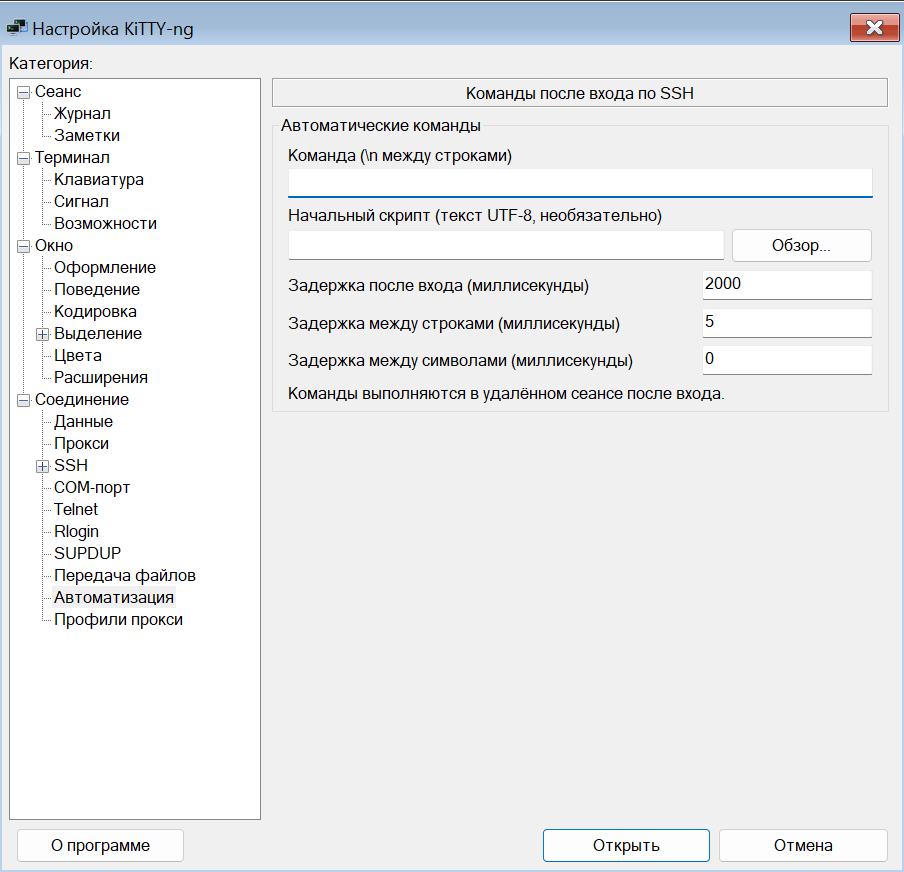
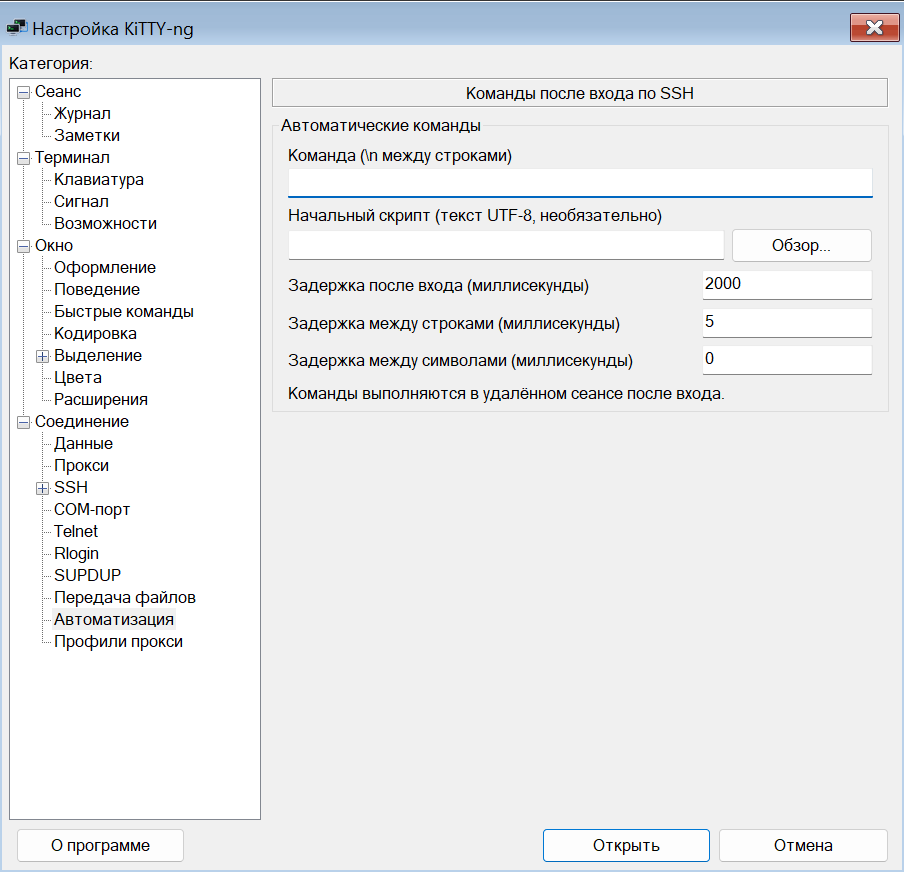
Document 0.85-10 quick commands and refresh native screenshots

Changed region(s): [[0.0, 0.3406, 0.2168, 0.7431]]

diff --git a/test/linux_release_acceptance.py b/test/linux_release_acceptance.py
@@ -7,11 +7,28 @@ binaries={name:hashlib.sha256((app/'usr/bin'/name).read_bytes()).hexdigest() for
 assert binaries==package['binaries']
 report={'status':'running','version':version,'source_commit':build['source_commit'],'binaries':binaries,'tests':[]}
 path=out/'native-acceptance.json'
+previous=json.loads(path.read_text()) if '--resume' in sys.argv and path.exists() else {}
+checkpoint_time=path.stat().st_mtime if path.exists() else 0
+same_package=all(previous.get(k)==report[k] for k in ('version','source_commit','binaries'))
+report['inputs']={}
+def inputs(name):
+ files=[p for p in root.glob('*.py') if p.name!='linux_release_acceptance.py']
+ if name=='duplicate-password-retry':files.append(root/'kittyng-password-vector.json')
+ return files,{p.name:hashlib.sha256(p.read_bytes()).hexdigest() for p in files}
+
 def run(name,args):
+ files,digests=inputs(name)
+ cached=previous.get('inputs',{}).get(name)
+ # Older checkpoints predate input digests. Reuse only when every relevant
+ # test file is still older than the checkpoint; otherwise run it again.
+ unchanged=(cached==digests) if cached is not None else all(p.stat().st_mtime<=checkpoint_time for p in files)
+ if same_package and name in previous.get('tests',[]) and unchanged:
+  report['tests'].append(name);report['inputs'][name]=digests
+  path.write_text(json.dumps(report,indent=2));print('REUSE: '+name,flush=True);return
  with (out/(name+'.log')).open('w') as log:
   result=subprocess.run(args,stdout=log,stderr=subprocess.STDOUT,timeout=240)
  if result.returncode:report['status']='failed';report['failed_suite']=name;path.write_text(json.dumps(report,indent=2));raise RuntimeError(name+' failed: '+(out/(name+'.log')).read_text()[-5000:])
- report['tests'].append(name);path.write_text(json.dumps(report,indent=2));print('PASS: '+name,flush=True)
+ report['tests'].append(name);report['inputs'][name]=digests;path.write_text(json.dumps(report,indent=2));print('PASS: '+name,flush=True)
 def gui(script,*args):return ['xvfb-run','-a','-s','-screen 0 1600x1000x24','dbus-run-session','--','python3',str(root/script),*map(str,args)]
 run('appimage-version',['xvfb-run','-a',str(root/f'kitty-ng-{version}-x86_64.AppImage'),'--appimage-extract-and-run','--version'])
 run('native-gui',gui('linux_native.py','--binary',app/'AppRun','--output',out/'native'))

diff --git a/test/linux_quick_commands.py b/test/linux_quick_commands.py
@@ -6,7 +6,8 @@ logging.getLogger('paramiko').setLevel(logging.CRITICAL)
 def wait(fn):
     end=time.monotonic()+15
     while time.monotonic()<end:
-        value=fn()
+        try:value=fn()
+        except subprocess.CalledProcessError:value=None
         if value:return value
         time.sleep(.1)
     raise AssertionError('Timeout waiting for quick-command GUI')

diff --git a/README.md b/README.md
@@ -1,6 +1,6 @@
 # KiTTY-ng
 
-**KiTTY-ng 0.85-9 для Windows, Linux и macOS**: общее русско-английское языковое ядро, переводы сообщений SSH и исправления вкладок. [Изменения](docs/releases/0.85-9.md) · [Скачать выпуск](https://github.com/nr084/KiTTY-ng/releases/tag/v0.85-9).
+**KiTTY-ng 0.85-10 для Windows и Linux**: общие быстрые команды, исправления компоновки и кириллицы настроек Windows, дата сборки в «О программе». [Изменения](docs/releases/0.85-10.md) · [Скачать](https://github.com/nr084/KiTTY-ng/releases/tag/v0.85-10). macOS Universal готовится отдельно.
 
 **macOS Universal 2 · Портативный режим**: поддерживаются Apple Silicon и Intel. Профили и ключи хранятся вне приложения; общую портативную папку можно использовать с Windows. Нативные вкладки сеансов включены.
 
@@ -16,13 +16,13 @@
 
 ## Скачать
 
-| Платформа | Сборка 0.85-9 | Запуск |
+| Платформа | Сборка 0.85-10 | Запуск |
 | --- | --- | --- |
-| Linux x86_64 | [AppImage](https://github.com/nr084/kitty-ng/releases/download/v0.85-9/kitty-ng-0.85-9-x86_64.AppImage) · [AppDir](https://github.com/nr084/kitty-ng/releases/download/v0.85-9/kitty-ng-0.85-9-x86_64.tar.zst) | `chmod +x`, запуск |
-| Windows x64 | [ZIP](https://github.com/nr084/kitty-ng/releases/download/v0.85-9/kitty-ng-0.85-9-x64.zip) | `kitty-ng-x64.exe` |
-| Windows x86 | [ZIP](https://github.com/nr084/kitty-ng/releases/download/v0.85-9/kitty-ng-0.85-9-x86.zip) | `kitty-ng-x86.exe` |
-| Windows arm64 | [ZIP](https://github.com/nr084/kitty-ng/releases/download/v0.85-9/kitty-ng-0.85-9-arm64.zip) | `kitty-ng-arm64.exe` |
-| macOS 13+ · Intel / Apple Silicon | [Universal DMG](https://github.com/nr084/kitty-ng/releases/download/v0.85-9/kitty-ng-0.85-9-macos-universal.dmg) | `KiTTY-ng.app` |
+| Linux x86_64 | [AppImage](https://github.com/nr084/kitty-ng/releases/download/v0.85-10/kitty-ng-0.85-10-x86_64.AppImage) · [AppDir](https://github.com/nr084/kitty-ng/releases/download/v0.85-10/kitty-ng-0.85-10-x86_64.tar.zst) | `chmod +x`, запуск |
+| Windows x64 | [ZIP](https://github.com/nr084/kitty-ng/releases/download/v0.85-10/kitty-ng-0.85-10-x64.zip) | `kitty-ng-x64.exe` |
+| Windows x86 | [ZIP](https://github.com/nr084/kitty-ng/releases/download/v0.85-10/kitty-ng-0.85-10-x86.zip) | `kitty-ng-x86.exe` |
+| Windows arm64 | [ZIP](https://github.com/nr084/kitty-ng/releases/download/v0.85-10/kitty-ng-0.85-10-arm64.zip) | `kitty-ng-arm64.exe` |
+| macOS 13+ · Intel / Apple Silicon | Universal DMG готовится и будет добавлен в этот выпуск | `KiTTY-ng.app` |
 
 [Все релизы и контрольные суммы](https://github.com/nr084/kitty-ng/releases). В комплекте клиент и пять утилит. Имена Windows EXE содержат архитектуру; версия указана внутри программ и в именах архивов.
 
@@ -37,13 +37,14 @@
 ## Возможности
 
 - macOS (ранее выпущенные возможности): нативные вкладки, дублирование временных подключений без записи профиля и верхнее меню активного сеанса. [Подробнее](docs/tabs.md).
-- Вкладки Windows/Linux в 0.85-9: дублирование в том же окне, перетаскивание, отдельные кнопки закрытия. [Подробнее](docs/tabs.md).
+- Вкладки Windows/Linux в 0.85-10: дублирование в том же окне, перетаскивание, отдельные кнопки закрытия. [Подробнее](docs/tabs.md).
 
 - Папки сеансов, быстрый поиск без учёта регистра, редактирование и дублирование.
 - Формат оригинального KiTTY и переносимые ссылки на ключи и сертификаты.
 - SCP/SFTP через kscp, отправка перетаскиванием и скачивание.
 - Генератор KiTTYgen, агент Kageant и настройки аутентификации текущего сеанса.
 - Автокоманды и UTF-8-скрипты после входа, задержки и переподключение.
+- [Быстрые команды](docs/quick-commands.md): до 20 команд с названиями, общих для всех сеансов; настройка в «Окно → Быстрые команды».
 - Настройки терминала, горячие клавиши, русский и английский интерфейс.
 
 ## Total Commander · kitty-ng-fs
@@ -83,7 +84,7 @@
 - [Windows](docs/windows.md) · [macOS](docs/macos.md) · [Linux](docs/linux.md).
 - [Портативные профили и переход с KiTTY](docs/portable.md).
 - [Локальная сборка](docs/build.md) · [Перенос расширений](docs/migration.md).
-- [Изменения 0.85-9](docs/releases/0.85-9.md) · [Следующие задачи](docs/planned.md).
+- [Изменения 0.85-10](docs/releases/0.85-10.md) · [Следующие задачи](docs/planned.md).
 
 ## Совместимость и проверка
 

diff --git a/docs/releases/0.85-10.md b/docs/releases/0.85-10.md
@@ -1,14 +1,22 @@
 # KiTTY-ng 0.85-10
 
-В подготовке: исправление компоновки и кириллицы настроек Windows после открытия SSH-сеанса, переводы вариантов буфера обмена, дата сборки рядом с версией, общие быстрые команды.
+## Новое
 
-## Быстрые команды
+- **Быстрые команды для Windows и Linux.** До 20 именованных команд, общих для всех сеансов. Редактор находится в **Окно → Быстрые команды**: добавление, сохранение, удаление и отдельный флажок отправки Enter. Запуск — из подменю **Быстрые команды** сразу после **Специальной команды**.
+- Команды хранятся в реестре установленной Windows-версии либо в `kitty.ini` портативной версии, отдельно от профилей. При первом запуске создаётся пример обновления Ubuntu; после удаления всех записей он не возвращается. Названия и команды сохраняются буквально.
+- В **О программе** рядом с версией отображается дата сборки.
 
-- Контекстное меню: «Быстрые команды» после «Специальной команды».
-- Редактор: «Окно → Быстрые команды», максимум 20 записей. Название, команда, флажок отправки Enter; добавить, сохранить, удалить.
-- Общие настройки, вне профилей: Windows — HKCU\Software\KiTTY-NG\QuickCommands либо секция [QuickCommands] файла kitty.ini в портативном режиме. Linux — kitty.ini выбранного портативного каталога.
-- Формат: cmd1_name, cmd1_instruction, cmd1_enter=yes/no, далее до cmd20. initialized=yes сохраняет намеренно пустой список.
-- При первом запуске создаётся пример Update Ubuntu / Обновить Ubuntu с командой apt -y update && apt -y upgrade && apt -y autoremove и Enter=yes. Существующие записи не перезаписываются, после удаления последней записи пример не возвращается.
-- Пользовательские названия и команды сохраняются буквально. Команда отправляется только после выбора пользователем и при доступном подключении; блокировка ввода учитывается.
+## Исправления
 
-Windows/Linux собираются локально на Windows. После их публикации — отдельный промпт для нативной macOS той же версии; Mac-чат адаптирует изменения, проверяет и добавляет DMG в этот выпуск. Портативный режим macOS и совместимость Windows-профилей сохраняются.
+- Windows: устранено повреждение кириллицы и вертикальное расползание текста в настройках после открытия SSH-сеанса. Проверены страницы сигнала, кодировки, выделения, цветов, обмена ключами, туннелей, автоматизации и профилей прокси.
+- Переведены варианты **System clipboard** и **Last selected text**. Новые строки быстрых команд используют общее языковое ядро RU/EN.
+
+## Платформы
+
+Windows x64/x86/ARM64 и Linux x86_64 (AppImage и AppDir). Сборки выполняются локально на Windows последним официальным stable-компилятором LLVM-MinGW 20261020 / Clang 23.1.4. Linux-пакет проверен нативно на Ubuntu.
+
+**macOS Universal 2 готовится отдельно** и будет добавлена в этот выпуск после нативной проверки. Сохраняются портативный режим macOS и совместимость с Windows-профилями: общий каталог `Sessions`, настройки и ключи вне `.app`.
+
+Плагин Total Commander **kitty-ng-fs 1.1.1** выпускается независимо и не изменяется.
+
+[Быстрые команды: руководство](https://github.com/nr084/KiTTY-ng/blob/main/docs/quick-commands.md) · [English guide](https://github.com/nr084/KiTTY-ng/blob/main/docs/quick-commands.en.md)

diff --git a/README.en.md b/README.en.md
@@ -1,6 +1,6 @@
 # KiTTY-ng
 
-**KiTTY-ng 0.85-9 for Windows, Linux and macOS**: a shared English/Russian localization engine, translated SSH messages, and tab fixes. [Release notes](docs/releases/0.85-9.md) · [Download](https://github.com/nr084/KiTTY-ng/releases/tag/v0.85-9).
+**KiTTY-ng 0.85-10 for Windows and Linux**: global quick commands, corrected Windows settings layout and Cyrillic text, and build dates in About. [Release notes](docs/releases/0.85-10.md) · [Download](https://github.com/nr084/KiTTY-ng/releases/tag/v0.85-10). macOS Universal is being prepared separately.
 
 **macOS Universal 2 · Portable**: runs on Apple Silicon and Intel. Keep profiles and keys outside the app bundle and share the same portable folder with Windows. Native session tabs are included.
 
@@ -16,13 +16,13 @@
 
 ## Download
 
-| Platform | Release 0.85-9 | Launch |
+| Platform | Release 0.85-10 | Launch |
 | --- | --- | --- |
-| Linux x86_64 | [AppImage](https://github.com/nr084/kitty-ng/releases/download/v0.85-9/kitty-ng-0.85-9-x86_64.AppImage) · [AppDir](https://github.com/nr084/kitty-ng/releases/download/v0.85-9/kitty-ng-0.85-9-x86_64.tar.zst) | `chmod +x`, launch |
-| Windows x64 | [ZIP](https://github.com/nr084/kitty-ng/releases/download/v0.85-9/kitty-ng-0.85-9-x64.zip) | `kitty-ng-x64.exe` |
-| Windows x86 | [ZIP](https://github.com/nr084/kitty-ng/releases/download/v0.85-9/kitty-ng-0.85-9-x86.zip) | `kitty-ng-x86.exe` |
-| Windows arm64 | [ZIP](https://github.com/nr084/kitty-ng/releases/download/v0.85-9/kitty-ng-0.85-9-arm64.zip) | `kitty-ng-arm64.exe` |
-| macOS 13+ · Intel / Apple Silicon | [Universal DMG](https://github.com/nr084/kitty-ng/releases/download/v0.85-9/kitty-ng-0.85-9-macos-universal.dmg) | `KiTTY-ng.app` |
+| Linux x86_64 | [AppImage](https://github.com/nr084/kitty-ng/releases/download/v0.85-10/kitty-ng-0.85-10-x86_64.AppImage) · [AppDir](https://github.com/nr084/kitty-ng/releases/download/v0.85-10/kitty-ng-0.85-10-x86_64.tar.zst) | `chmod +x`, launch |
+| Windows x64 | [ZIP](https://github.com/nr084/kitty-ng/releases/download/v0.85-10/kitty-ng-0.85-10-x64.zip) | `kitty-ng-x64.exe` |
+| Windows x86 | [ZIP](https://github.com/nr084/kitty-ng/releases/download/v0.85-10/kitty-ng-0.85-10-x86.zip) | `kitty-ng-x86.exe` |
+| Windows arm64 | [ZIP](https://github.com/nr084/kitty-ng/releases/download/v0.85-10/kitty-ng-0.85-10-arm64.zip) | `kitty-ng-arm64.exe` |
+| macOS 13+ · Intel / Apple Silicon | Universal DMG is being prepared and will be added to this release | `KiTTY-ng.app` |
 
 [All releases and checksums](https://github.com/nr084/kitty-ng/releases). Each package includes the client and five utilities. Windows EXE names include their architecture; versions are embedded in the programs and included in archive names.
 
@@ -37,13 +37,14 @@ The Mac app uses an ad-hoc signature without Developer ID or notarization. If bl
 ## Features
 
 - macOS (previously released features): native tabs, temporary connection duplication without saving profiles, and a top menu for the active session. [Details](docs/tabs.en.md).
-- Windows/Linux tabs in 0.85-9: duplicate in the same window, drag to reorder, and individual close buttons. [Details](docs/tabs.en.md).
+- Windows/Linux tabs in 0.85-10: duplicate in the same window, drag to reorder, and individual close buttons. [Details](docs/tabs.en.md).
 
 - Session folders, case-insensitive quick search, editing and duplication.
 - Original KiTTY profile format and portable key/certificate references.
 - SCP/SFTP through kscp, drag-and-drop uploads and downloads.
 - KiTTYgen, Kageant and authentication settings from the current session.
 - Post-login commands and UTF-8 scripts, delays and reconnection.
+- [Quick commands](docs/quick-commands.en.md): up to 20 named commands shared by all sessions; configure them under Window → Quick commands.
 - Terminal settings, shortcuts, English and Russian interfaces.
 
 ## Total Commander · kitty-ng-fs
@@ -83,7 +84,7 @@ The Mac app uses an ad-hoc signature without Developer ID or notarization. If bl
 - [Windows](docs/windows.en.md) · [macOS](docs/macos.en.md) · [Linux](docs/linux.en.md).
 - [Portable profiles and migration](docs/portable.en.md).
 - [Local builds](docs/build.en.md) · [Migration report](docs/migration.md) (Russian).
-- [0.85-9 release notes](docs/releases/0.85-9.md) · [Roadmap](docs/planned.md) (Russian).
+- [0.85-10 release notes](docs/releases/0.85-10.md) · [Roadmap](docs/planned.md) (Russian).
 
 ## Compatibility and validation
 

diff --git a/docs/quick-commands.en.md b/docs/quick-commands.en.md
@@ -1,0 +1,27 @@
+# Quick commands
+
+Open **Window → Quick commands** in KiTTY-ng settings. Commands are shared by all sessions and stored outside individual profiles.
+
+Click **Add**, enter a name and a single-line command, choose whether to send Enter, and click **Save**. Select a saved command to edit or delete it. Save and Delete take effect immediately, independently of closing the settings dialog. Up to 20 commands are supported.
+
+Run a command from **Quick commands**, immediately after **Special Command** in the terminal menu. The text is sent literally to the active remote session. Without Enter, you can review or extend it before execution. Sending is disabled while input is locked or the connection is not ready.
+
+![Windows quick-command editor](screenshots/quick-commands-en.png)
+
+## Storage
+
+Installed Windows: `HKCU\Software\KiTTY-NG\QuickCommands`. Portable Windows and Linux: the `[QuickCommands]` section of `kitty.ini` in the selected portable root.
+
+```ini
+[QuickCommands]
+initialized=yes
+cmd1_name=Update Ubuntu
+cmd1_instruction=apt -y update && apt -y upgrade && apt -y autoremove
+cmd1_enter=yes
+```
+
+Slots are numbered 1–20. Use `yes` or `no` for Enter. Names and commands retain their original text. Other INI sections are preserved; writes use UTF-16LE with a BOM, supported by the existing Windows/Linux/macOS readers.
+
+On the first run without this section, KiTTY-ng creates the Ubuntu example in the selected interface language. Creating the example does not execute it. Switching languages does not rename user commands, and deleting all commands does not recreate the example.
+
+Native macOS adaptation is prepared separately for the same release.

diff --git a/docs/quick-commands.md b/docs/quick-commands.md
@@ -6,6 +6,8 @@
 
 Для запуска выберите команду в подменю **Быстрые команды** после **Специальной команды** в меню терминала. Текст передаётся активному удалённому сеансу буквально. Без флажка Enter его можно проверить или дополнить перед выполнением. При блокировке ввода или отсутствии готового подключения отправка отключена.
 
+![Быстрые команды в Windows](screenshots/quick-commands-ru.png)
+
 ## Хранение
 
 В установленной Windows-версии: `HKCU\Software\KiTTY-NG\QuickCommands`. В портативном режиме Windows и в Linux: секция `[QuickCommands]` файла `kitty.ini` в выбранном корне портативных данных.

diff --git a/docs/README.md b/docs/README.md
@@ -4,6 +4,7 @@
 
 | Руководство | Содержание |
 | --- | --- |
+| [Быстрые команды](quick-commands.md) | Общие команды, редактор и хранение вне профилей |
 | [Windows](windows.md) | Запуск, язык, утилиты и передача файлов |
 | [macOS Universal](macos.md) | DMG, portable-режим и общие Windows-профили |
 | [Linux · AppImage](linux.md) | AppImage, локальная сборка на Windows и нативные проверки |
